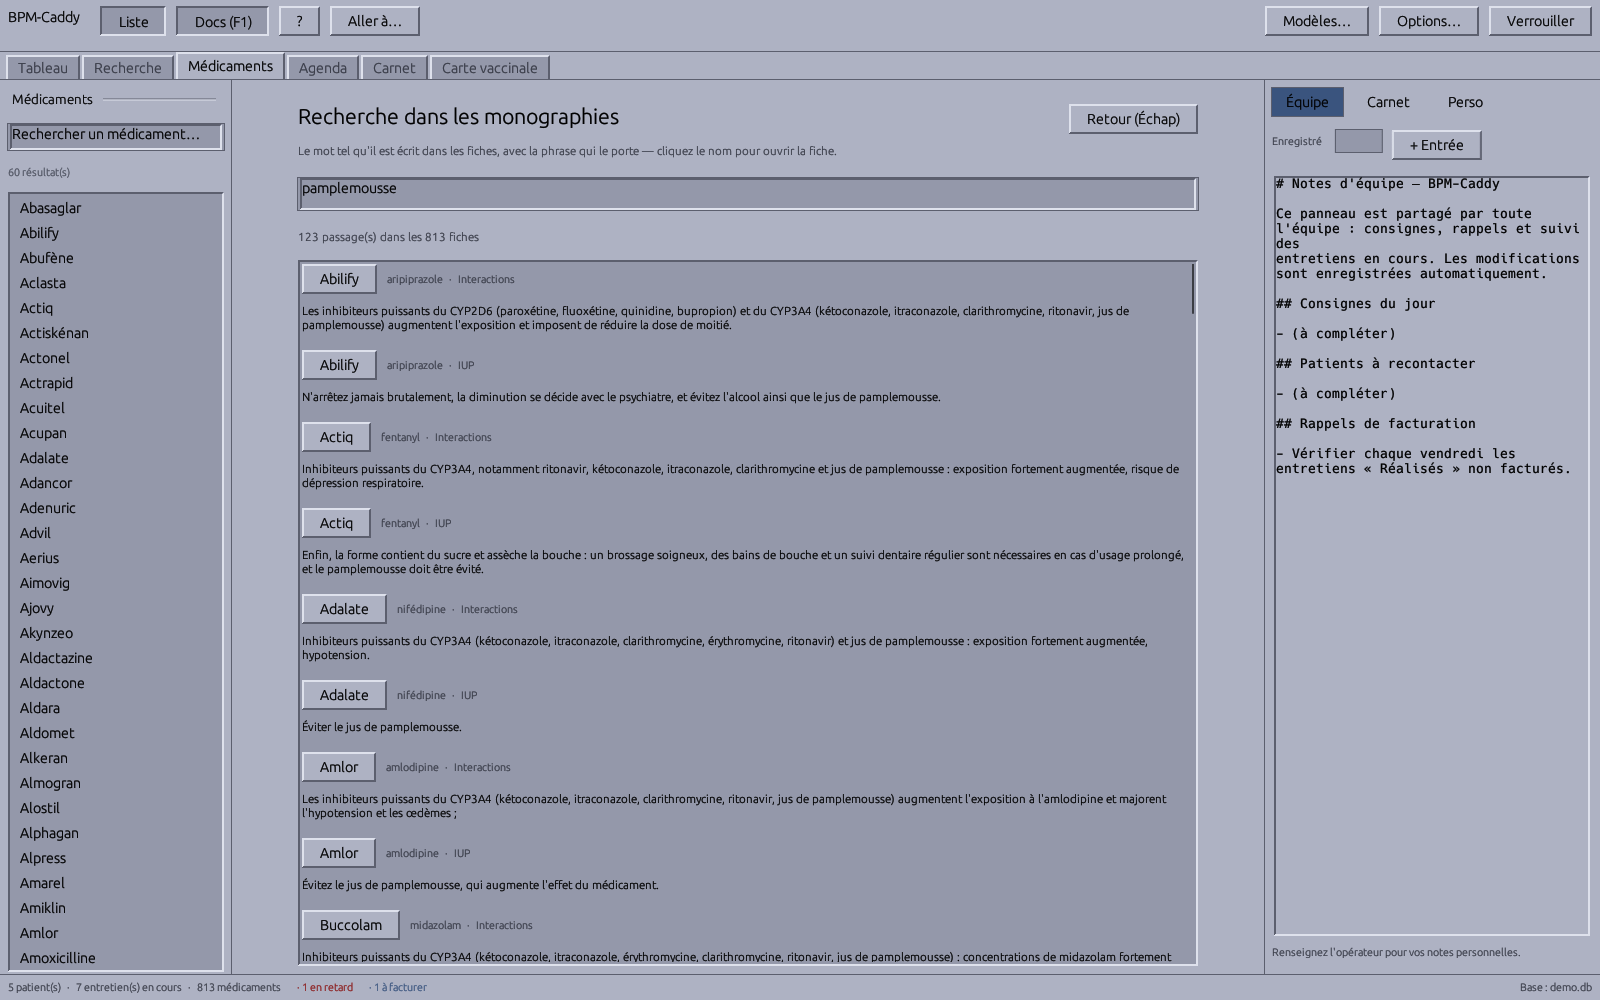
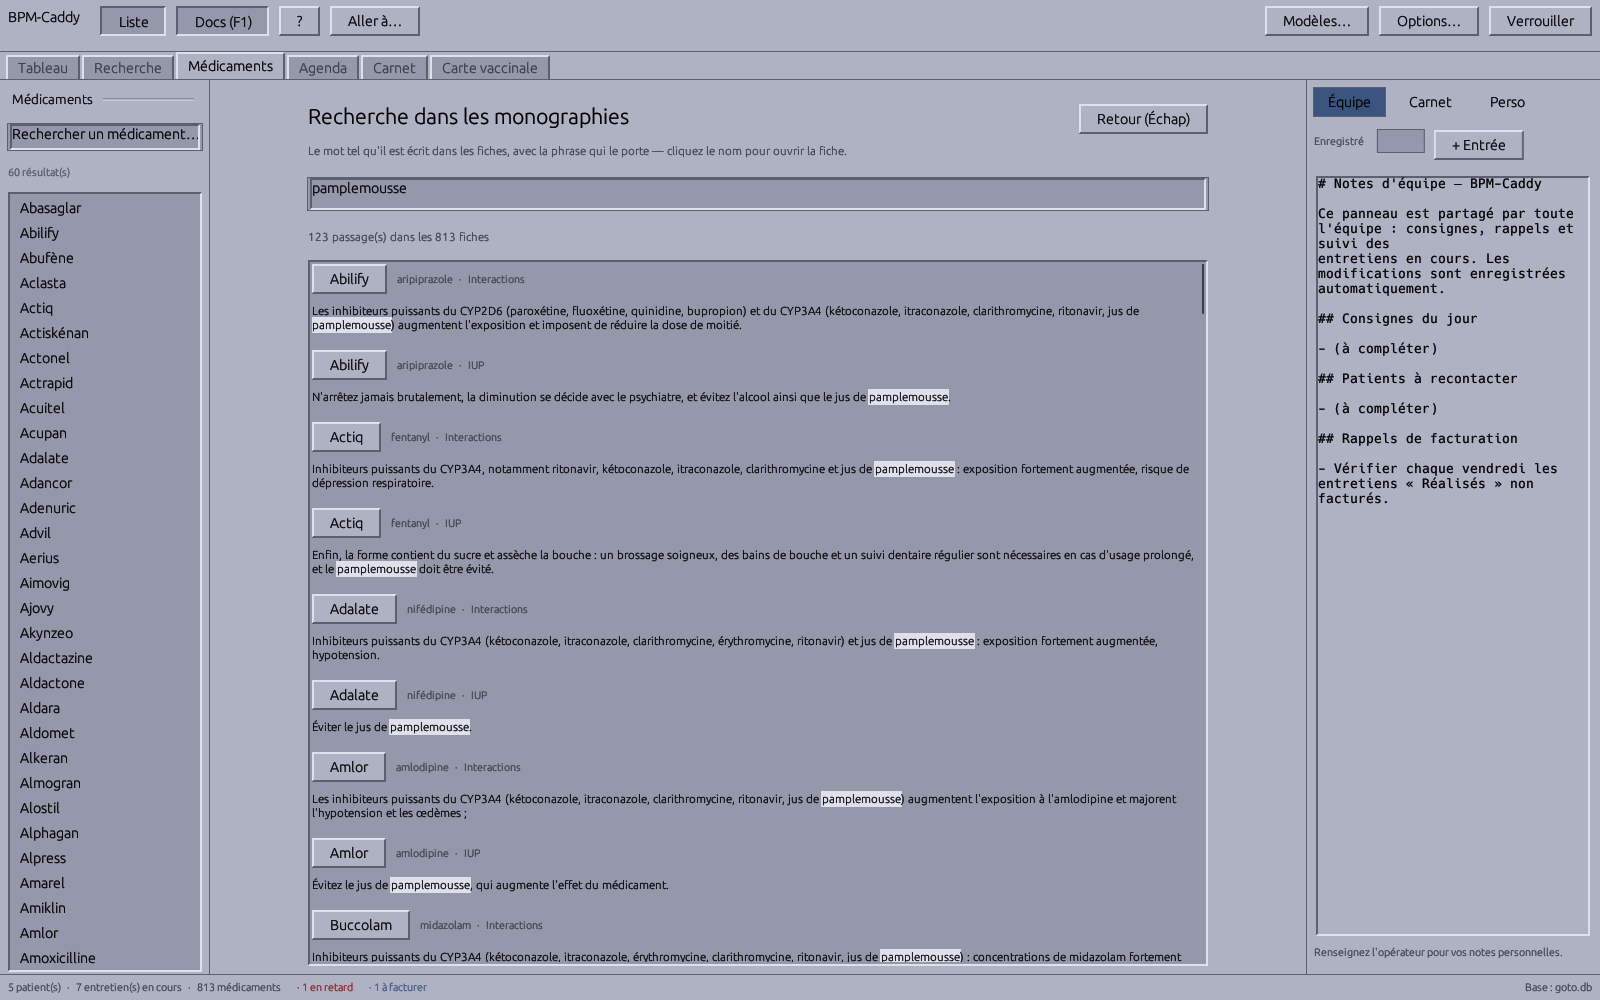
Release 0.79.0: the word you looked for, marked in the sentence that carries it

diff --git a/src/app.rs b/src/app.rs
@@ -2573,6 +2573,42 @@ fn folded_find(text: &str, needle: &[char]) -> Option<(usize, usize)> {
         .map(|i| (offsets[i], offsets[i + needle.len()]))
 }
 
+/// The sentence with the searched word marked, so the eye lands on it
+/// rather than reading a hundred and twenty-three paragraphs.
+///
+/// The bundled family has no bold face — the same constraint
+/// [`rich_text`] works around — so the emphasis is a darker ink on the
+/// light background, the way the Motif widgets mark a selection.
+fn mono_sentence(sentence: &str, query: &str, size: f32) -> egui::text::LayoutJob {
+    let mut job = egui::text::LayoutJob::default();
+    job.wrap.max_width = f32::INFINITY;
+    let plain = egui::TextFormat {
+        font_id: egui::FontId::proportional(size),
+        color: motif::TEXT,
+        ..Default::default()
+    };
+    let needle: Vec<char> = fuzzy::sort_key(query.trim()).chars().collect();
+    match folded_find(sentence, &needle) {
+        Some((at, end)) => {
+            job.append(&sentence[..at], 0.0, plain.clone());
+            job.append(
+                &sentence[at..end],
+                0.0,
+                egui::TextFormat {
+                    color: egui::Color32::BLACK,
+                    background: motif::BG_LIGHT,
+                    ..plain.clone()
+                },
+            );
+            job.append(&sentence[end..], 0.0, plain);
+        }
+        // Nothing to mark: show the sentence as it stands rather than
+        // nothing at all.
+        None => job.append(sentence, 0.0, plain),
+    }
+    job
+}
+
 /// Every place `query` appears in the prose of the base, in the order
 /// the cards are held, capped at `limit`.
 ///
@@ -14010,6 +14046,9 @@ impl App {
             if rect.height() < 40.0 {
                 return;
             }
+            // The word to mark in each sentence, copied out before the
+            // list borrows the session.
+            let marked = session.mono_query.trim().to_owned();
             let inner = motif::well(ui, rect);
             motif::inside(ui, inner, |ui| {
                 egui::ScrollArea::vertical()
@@ -14036,7 +14075,7 @@ impl App {
                             ui.scope(|ui| {
                                 ui.set_max_width(ui.available_width());
                                 ui.add(
-                                    egui::Label::new(egui::RichText::new(&hit.sentence).size(12.0))
+                                    egui::Label::new(mono_sentence(&hit.sentence, &marked, 12.0))
                                         .wrap(),
                                 );
                             });
@@ -16212,6 +16251,29 @@ mod tests {
         for (key, _) in MONO_FIELDS {
             assert_ne!(crate::strings::tr(key), key, "libellé manquant : {key}");
         }
+    }
+
+    #[test]
+    fn the_searched_word_is_marked_in_the_sentence() {
+        use super::mono_sentence;
+        // Three sections — before, the word, after — and the word keeps
+        // the accents the sentence wrote it with, not the query's.
+        let job = mono_sentence("Éviter le jus de pamplemousse ici.", "PAMPLEMOUSSE", 12.0);
+        assert_eq!(job.sections.len(), 3);
+        let marked = &job.sections[1];
+        assert_eq!(
+            &job.text[marked.byte_range.clone()],
+            "pamplemousse",
+            "c'est le mot de la phrase qui est surligné"
+        );
+        assert_eq!(marked.format.background, motif::BG_LIGHT);
+        // The whole sentence is still there, once.
+        assert_eq!(job.text, "Éviter le jus de pamplemousse ici.");
+        // A word the sentence does not carry leaves it plain rather
+        // than blank.
+        let job = mono_sentence("Rien de particulier.", "amiodarone", 12.0);
+        assert_eq!(job.sections.len(), 1);
+        assert_eq!(job.text, "Rien de particulier.");
     }
 
     #[test]

diff --git a/CHANGELOG.md b/CHANGELOG.md
@@ -5,6 +5,15 @@ All notable changes to BPM-Caddy will be documented in this file.
 The format is based on [Keep a Changelog](https://keepachangelog.com/en/1.1.0/),
 and this project adheres to [Semantic Versioning](https://semver.org/spec/v2.0.0.html).
 
+## [0.79.0] - 2026-08-27
+
+### Changed
+- **Le mot cherché est surligné dans la phrase qui le porte.** Cent
+  vingt-trois passages de « pamplemousse » se lisaient jusqu'ici comme
+  cent vingt-trois paragraphes ; l'œil tombe maintenant dessus. Encre
+  sombre sur fond clair, comme les widgets Motif marquent une sélection,
+  faute de graisse dans la famille embarquée.
+
 ## [0.78.0] - 2026-08-27
 
 ### Added
